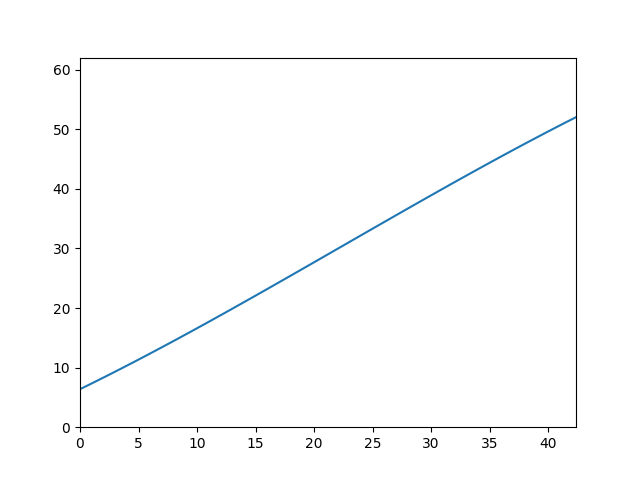
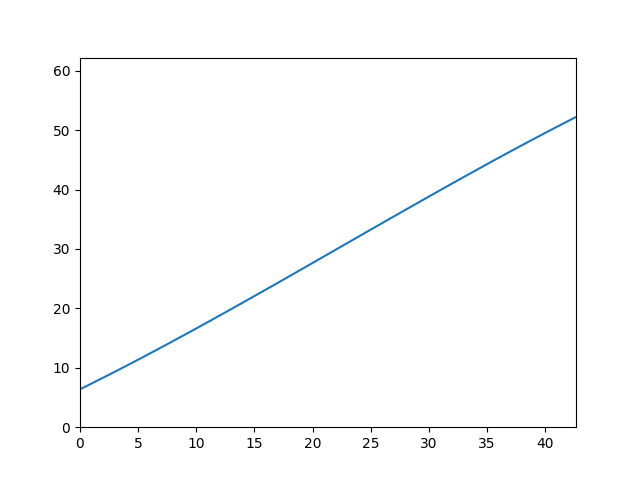
Finish deore

diff --git a/derailleurs/Shimano Deore M5120/default.htm b/derailleurs/Shimano Deore M5120/default.htm
@@ -21,11 +21,11 @@ Shimano Deore 11-Speed
   </tr>
   <tr>
     <th>Pull Ratio</th>
-    <td>1.11</td>
+    <td>1.10</td>
   </tr>
   <tr>
     <th>Curve Coefficients</th>
-    <td>6.38, 0.958, 0.00763, -0.000114</td>
+    <td>6.38, 0.965, 0.00700, -0.000104</td>
   </tr>
   <tr>
     <th>Physical Low Limit</th>
@@ -33,23 +33,23 @@ Shimano Deore 11-Speed
   </tr>
   <tr>
     <th>Physical High Limit</th>
-    <td>52.04</td>
+    <td>52.21</td>
   </tr>
   <tr>
     <th>Pull Ratio Averaged Across Pulling Runs</th>
-    <td>1.113 +/- 0.007</td>
+    <td>1.112 +/- 0.006</td>
   </tr>
   <tr>
     <th>Pull Ratio Averaged Across Relaxing Runs</th>
-    <td>1.098 +/- 0.000</td>
+    <td>1.094 +/- 0.009</td>
   </tr>
   <tr>
     <th>Pull Ratio Averaged Across All Runs</th>
-    <td>1.108 +/- 0.015</td>
+    <td>1.103 +/- 0.020</td>
   </tr>
   <tr>
     <th>Pull Ratio 95% Confidence Interval</th>
-    <td>1.093 to 1.123</td>
+    <td>1.083 to 1.123</td>
   </tr>
   
   
@@ -68,6 +68,16 @@ Shimano Deore 11-Speed
 
 
 <section>
+<h2>2025-01-11 14-55 PM Relaxing</h2>
+<a href="pullratio/2025-01-11 14-55 PM Relaxing.csv">Raw Measurement Data</a>
+<figure>
+<img src="pullratio/2025-01-11 14-55 PM Relaxing.png"/>
+<figcaption>Data and best fit line, excluding points taken at limits</figcaption>
+</figure>
+</section>
+
+
+<section>
 <h2>2025-01-11 13-03 PM Pulling</h2>
 <a href="pullratio/2025-01-11 13-03 PM Pulling.csv">Raw Measurement Data</a>
 <figure>
@@ -82,6 +92,26 @@ Shimano Deore 11-Speed
 <a href="pullratio/2025-01-11 13-26 PM Relaxing.csv">Raw Measurement Data</a>
 <figure>
 <img src="pullratio/2025-01-11 13-26 PM Relaxing.png"/>
+<figcaption>Data and best fit line, excluding points taken at limits</figcaption>
+</figure>
+</section>
+
+
+<section>
+<h2>2025-01-11 15-10 PM Pulling</h2>
+<a href="pullratio/2025-01-11 15-10 PM Pulling.csv">Raw Measurement Data</a>
+<figure>
+<img src="pullratio/2025-01-11 15-10 PM Pulling.png"/>
+<figcaption>Data and best fit line, excluding points taken at limits</figcaption>
+</figure>
+</section>
+
+
+<section>
+<h2>2025-01-11 15-23 PM Relaxing</h2>
+<a href="pullratio/2025-01-11 15-23 PM Relaxing.csv">Raw Measurement Data</a>
+<figure>
+<img src="pullratio/2025-01-11 15-23 PM Relaxing.png"/>
 <figcaption>Data and best fit line, excluding points taken at limits</figcaption>
 </figure>
 </section>
